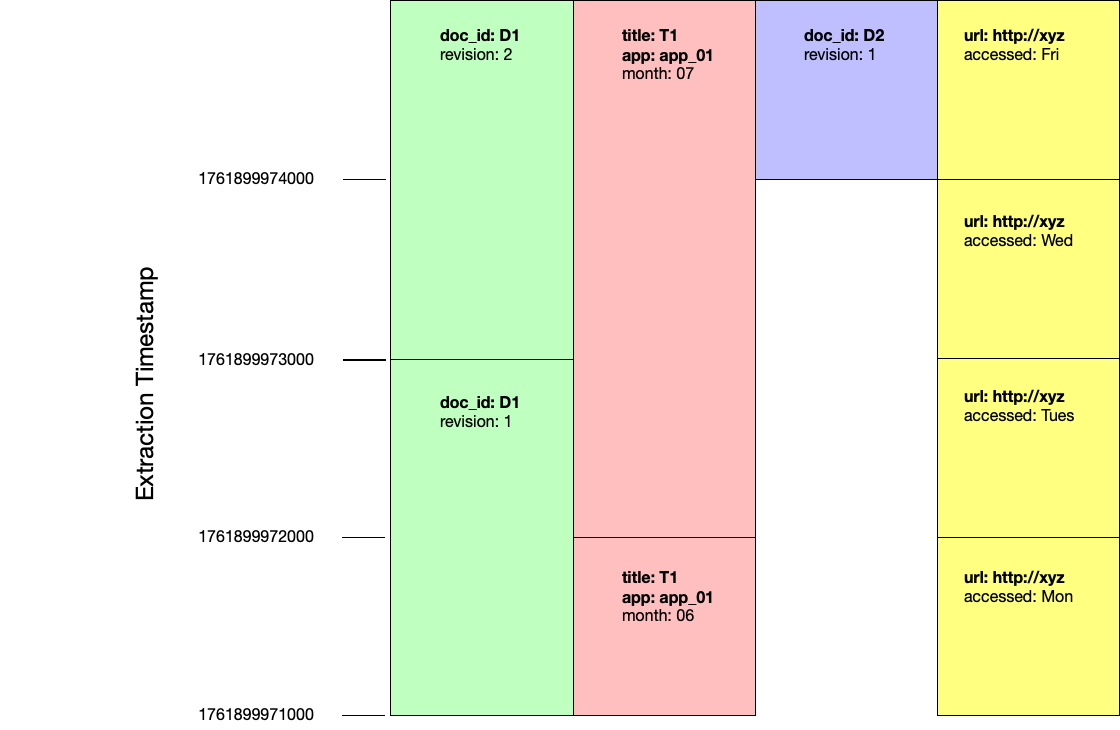
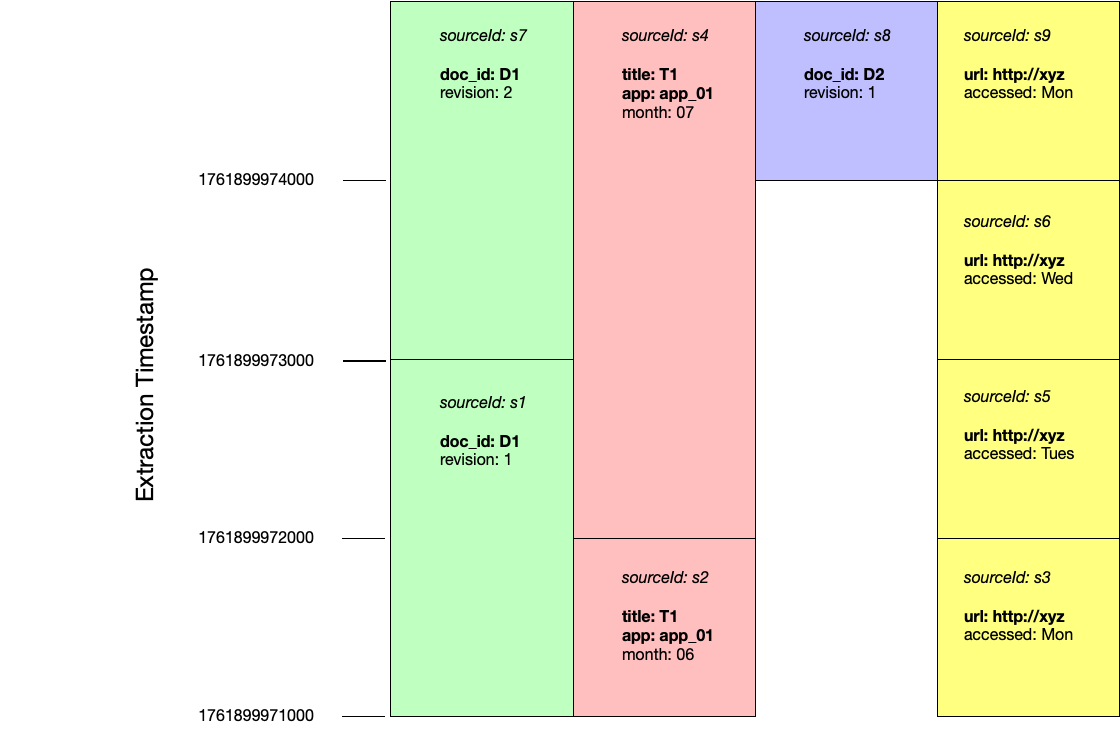
Update docs

diff --git a/docs/lexical-graph/versioned-updates.md b/docs/lexical-graph/versioned-updates.md
@@ -210,6 +210,44 @@ with(
 
 ![Versioning](../../images/versioning-1.png)
 
+At timestamp 1761899971000 documents with the following source ids and metadata are ingested into an empty graph:
+
+  - s1: `{'doc_id': 'D1', 'revision': 1}` The `doc_id` is marked as a version-independent field, but there are no other current documents matching this field name and value (`doc_id=D2`).
+  - s2: `{'title': 'T1', 'app': 'app_01', 'month': '06'}` The `title` and `app` fields are marked as version-independent fields, but there are no other current documents matching these field names and values (`title=T1 and app=app_01`).
+  - s3: `{'url': 'http://xyz', 'accessed': 'Mon'}`  The `doc_id` is marked as a version-independent field, but there are no other current documents matching this field name and value (`url=http://xyz`).
+
+At 1761899972000 two more documents are ingested:
+
+  - s4: `{'title': 'T1', 'app': 'app_01', 'month': '07'}` The `title` and `app` fields are marked as version-independent fields: matching the field names and values (`title=T1 and app=app_01`) against other current documents results in s4 replacing s2.
+  - s5: `{'url': 'http://xyz', 'accessed': 'Tues'}` The `url` field is marked as a version-independent field: matching the field name and value (`url=http://xyz`) against other current documents results in s5 replacing s3.
+
+At 1761899973000 another two documents are ingested:
+
+  - s6: `{'url': 'http://xyz', 'accessed': 'Wed'}` The `url` field is marked as a version-independent field: matching the field name and value (`url=http://xyz`) against other current documents results in s6 replacing s5.
+  - s7: `{'doc_id': 'D1', 'revision': 2}` The `doc_id` field is marked as a version-independent field: matching the field name and value (`doc_id=D1`) against other current documents results in s7 replacing s1.
+
+At 1761899974000 a last two documents are ingested:
+
+  - s8: `{'doc_id': 'D2', 'revision': 1}` The `doc_id` is marked as a version-independent field, but there are no other current documents currently matching this field name and value (`doc_id=D2`).
+  - s9: `{'url': 'http://xyz', 'accessed': 'Mon'}` The `url` field is marked as a version-independent field: matching the field name and value (`url=http://xyz`) against other current documents results in s9 replacing s6.
+
+At the end of these four rounds of extraction, the following documents are considered current:
+
+  - s7
+  - s4
+  - s8
+  - s9
+
+![Current](../../images/versioning-2.png)
+
+If we were to query at timestamp 1761899972500, the following documents would be considered current:
+
+  - s1
+  - s4
+  - s5
+
+![Historical](../../images/versioning-2.png)
+
 ### Upgrading existing graph and vector stores
 
 If you have existing graph and vector stores created by a version of the graphrag-toolkit prior to version 3.14, you will need to upgrade them before using the versioned updates feature. The graphrag-toolkit includes an `upgrade_for_versioning.py` script that will upgrade a graph and vector store so that you can use versioned updates.
